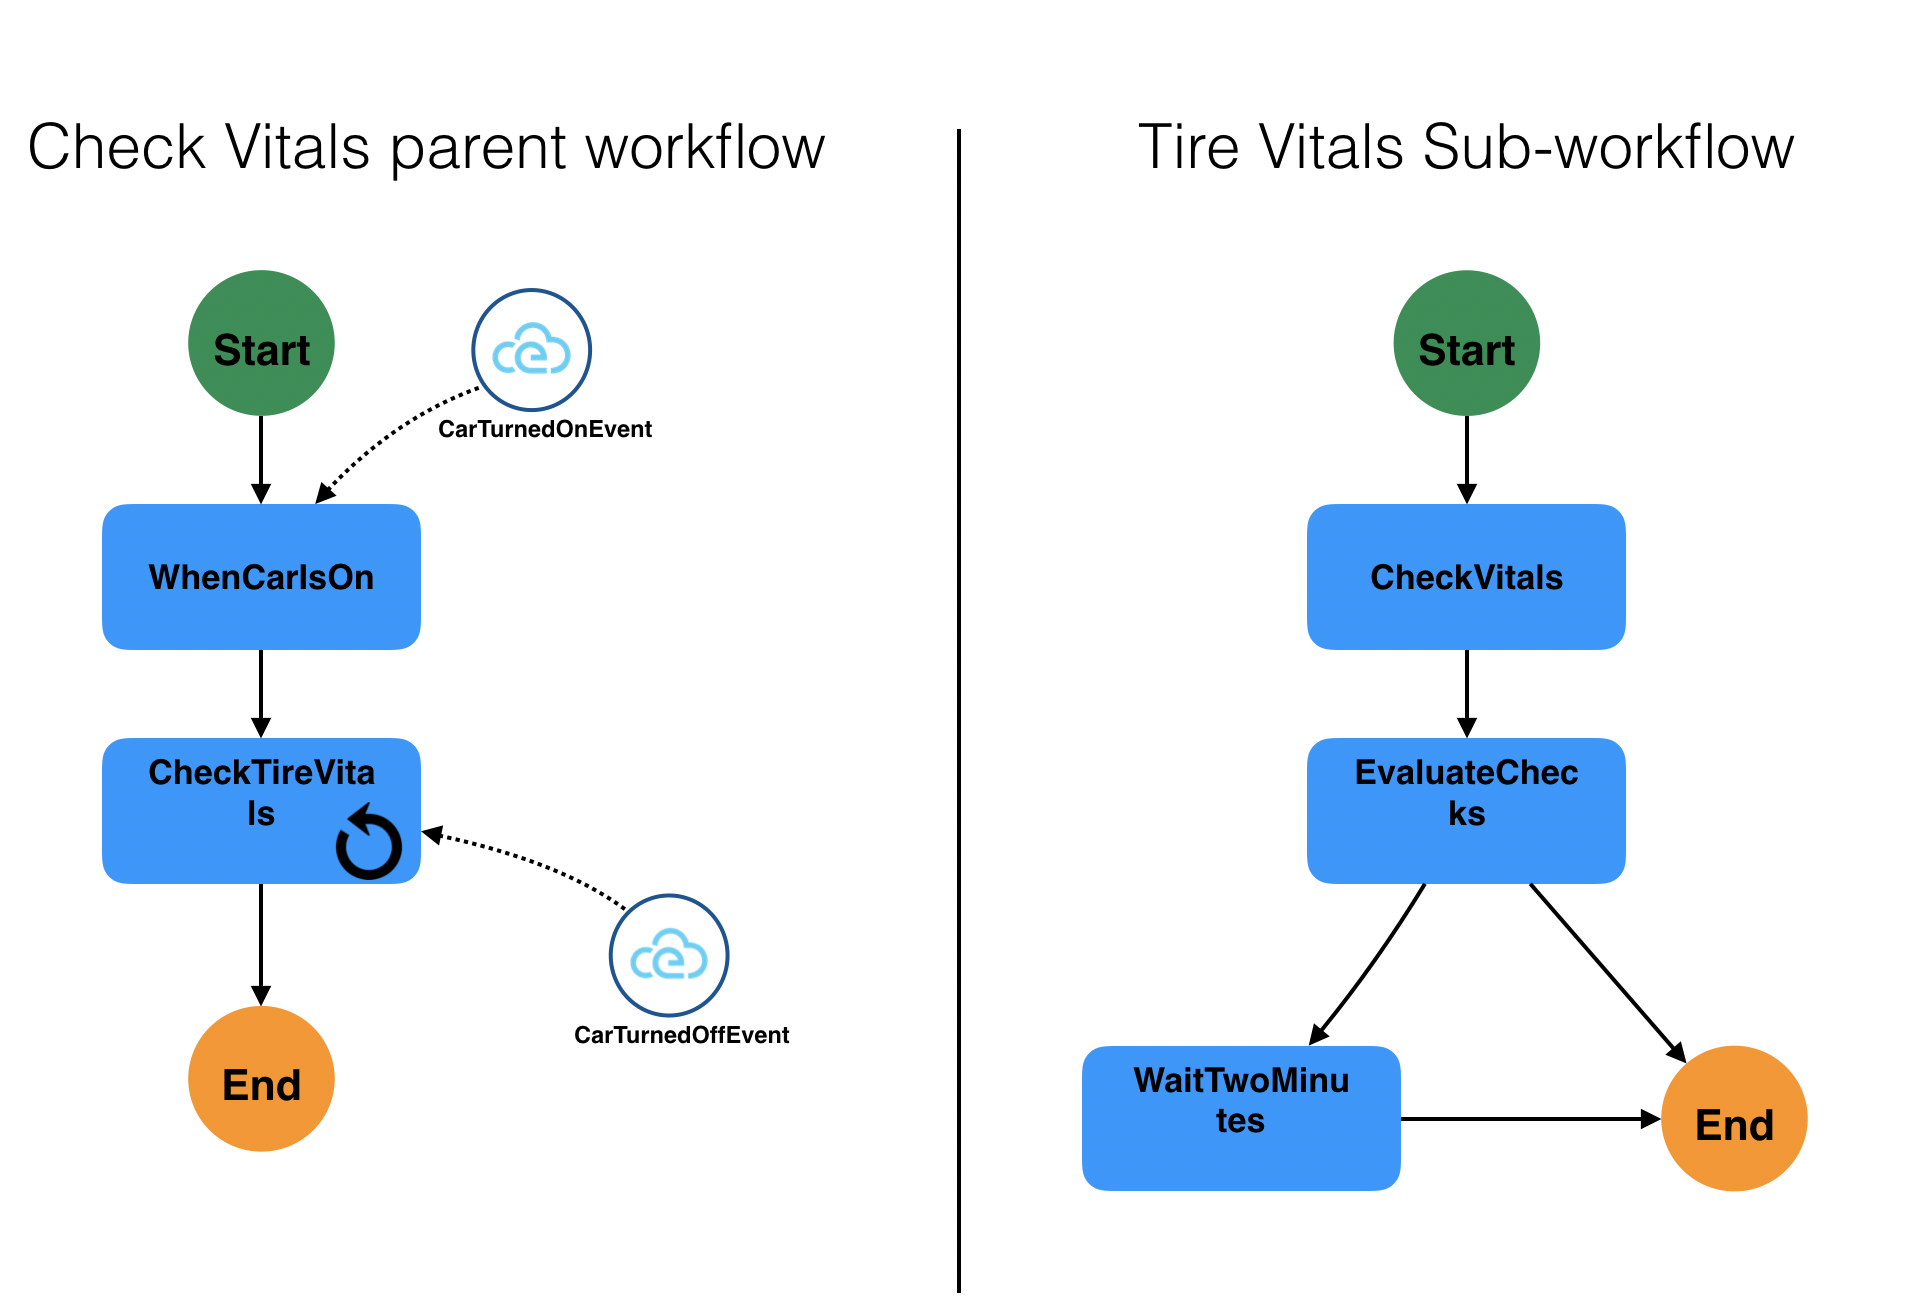
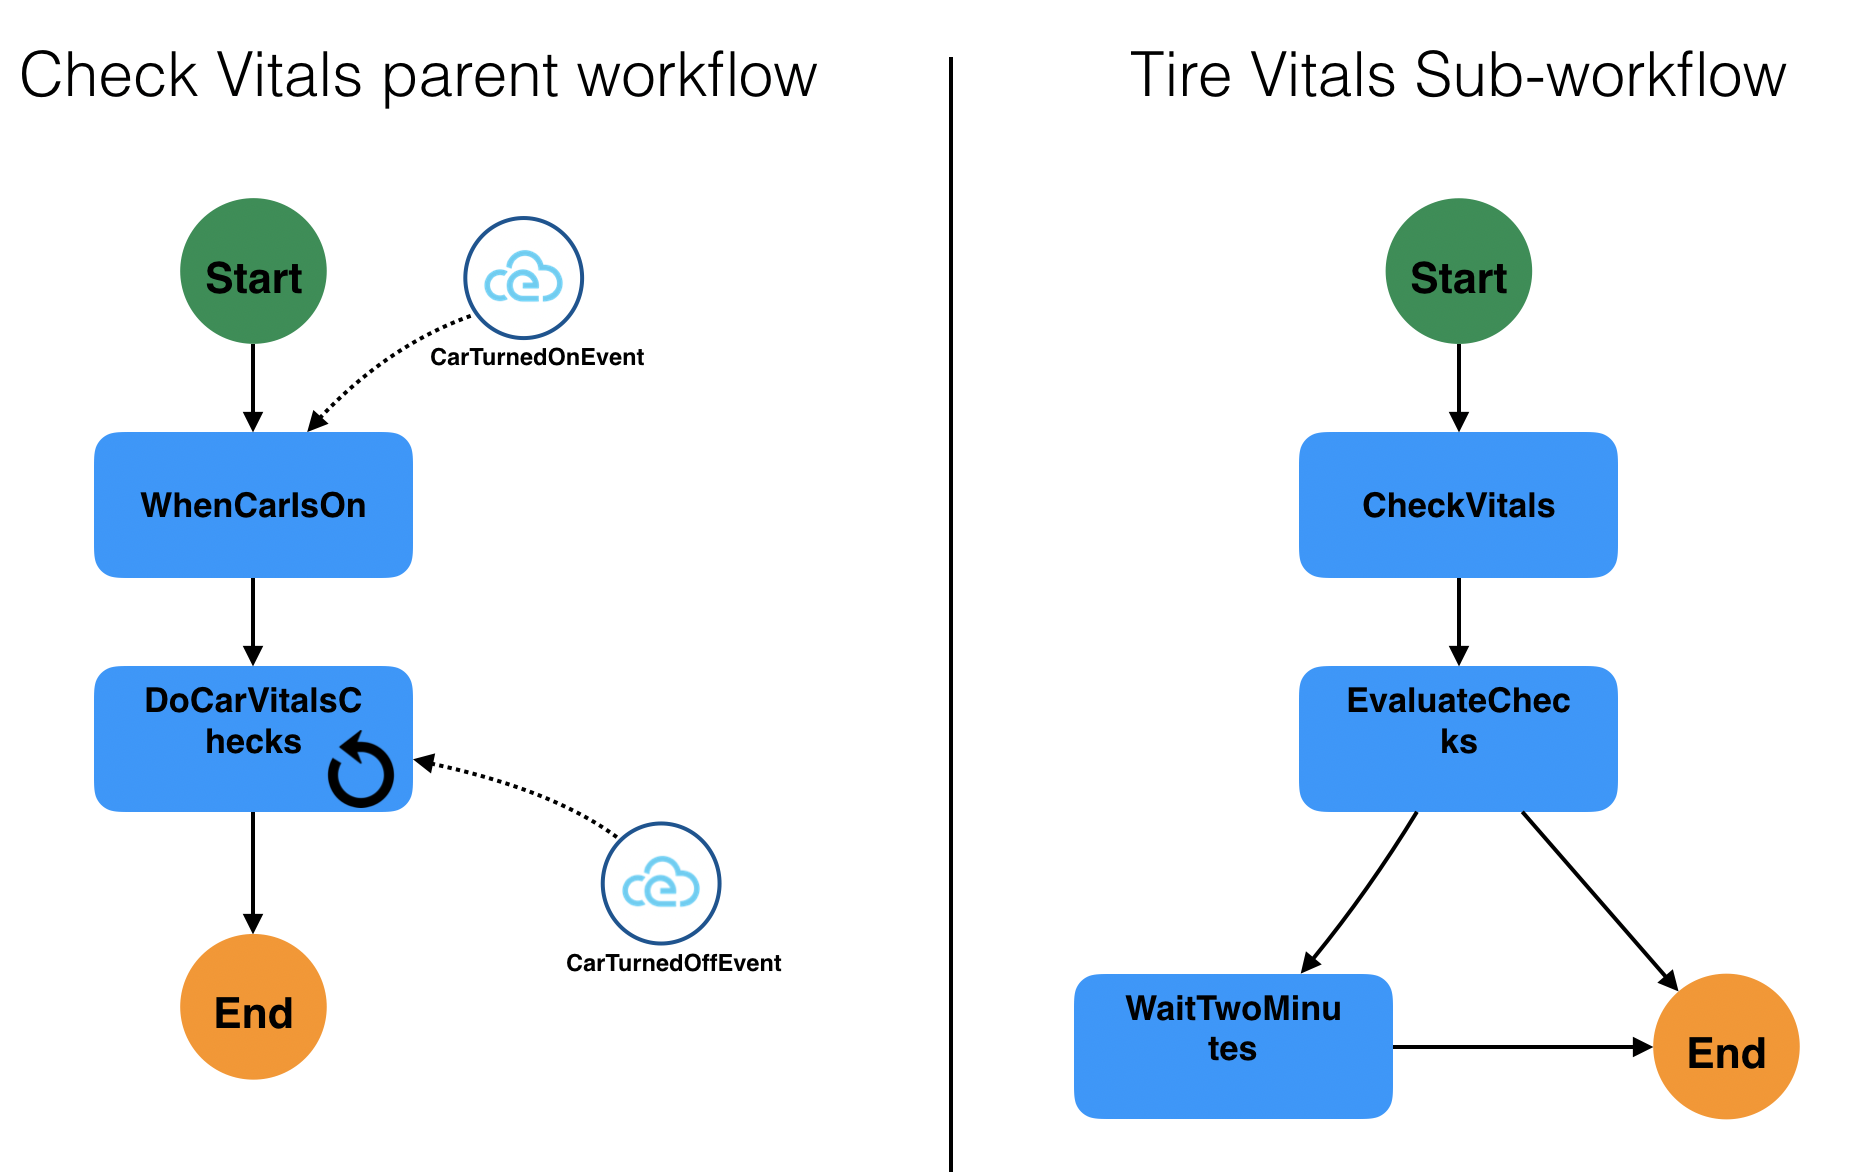
fix example

diff --git a/examples/README.md b/examples/README.md
@@ -3287,10 +3287,10 @@ We fist define our top-level workflow for this example:
                 "eventRefs": ["CarTurnedOnEvent"]
              }
           ],
-          "transition": "CheckVitals"
+          "transition": "DoCarVitalsChecks"
        },
        {
-          "name": "CheckVitals",
+          "name": "DoCarVitalsChecks",
           "type": "subflow",
           "workflowId": "vitalscheck",
           "repeat": {
@@ -3328,8 +3328,8 @@ states:
   onEvents:
   - eventRefs:
     - CarTurnedOnEvent
-  transition: CheckVitals
-- name: CheckVitals
+  transition: DoCarVitalsChecks
+- name: DoCarVitalsChecks
   type: subflow
   workflowId: vitalscheck
   repeat:
